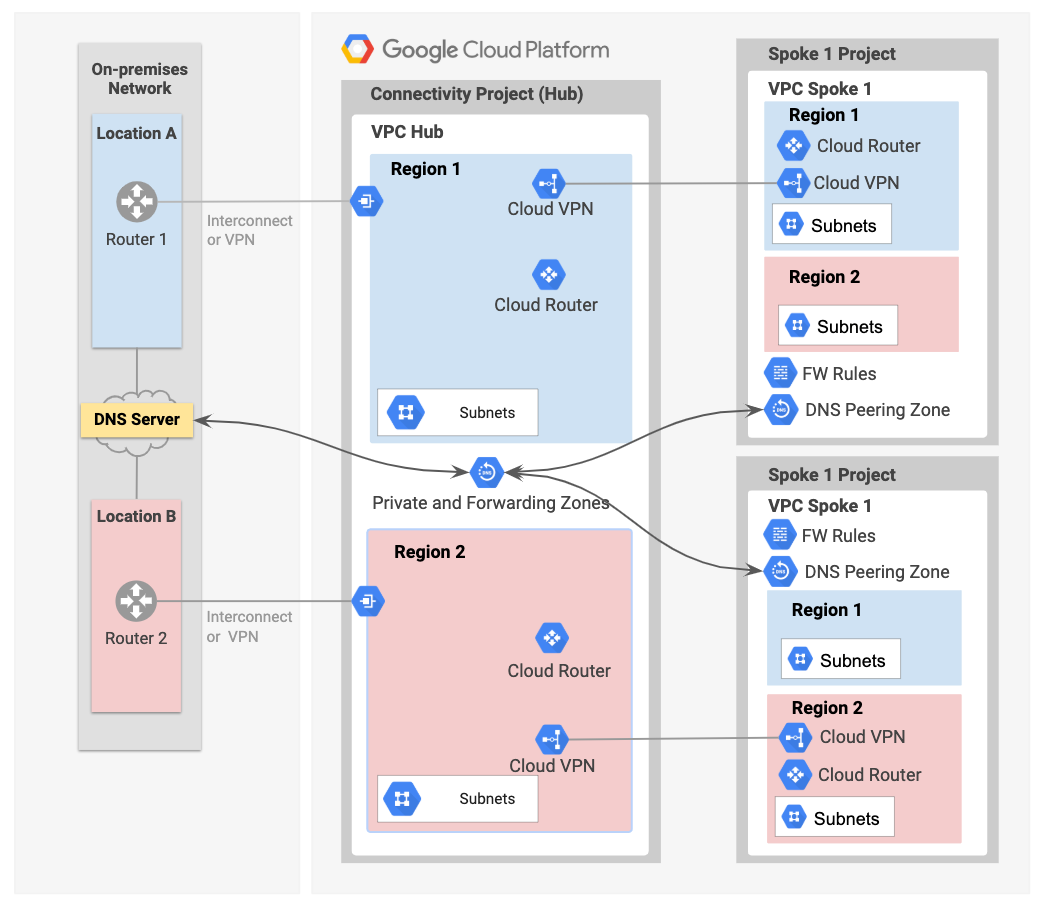
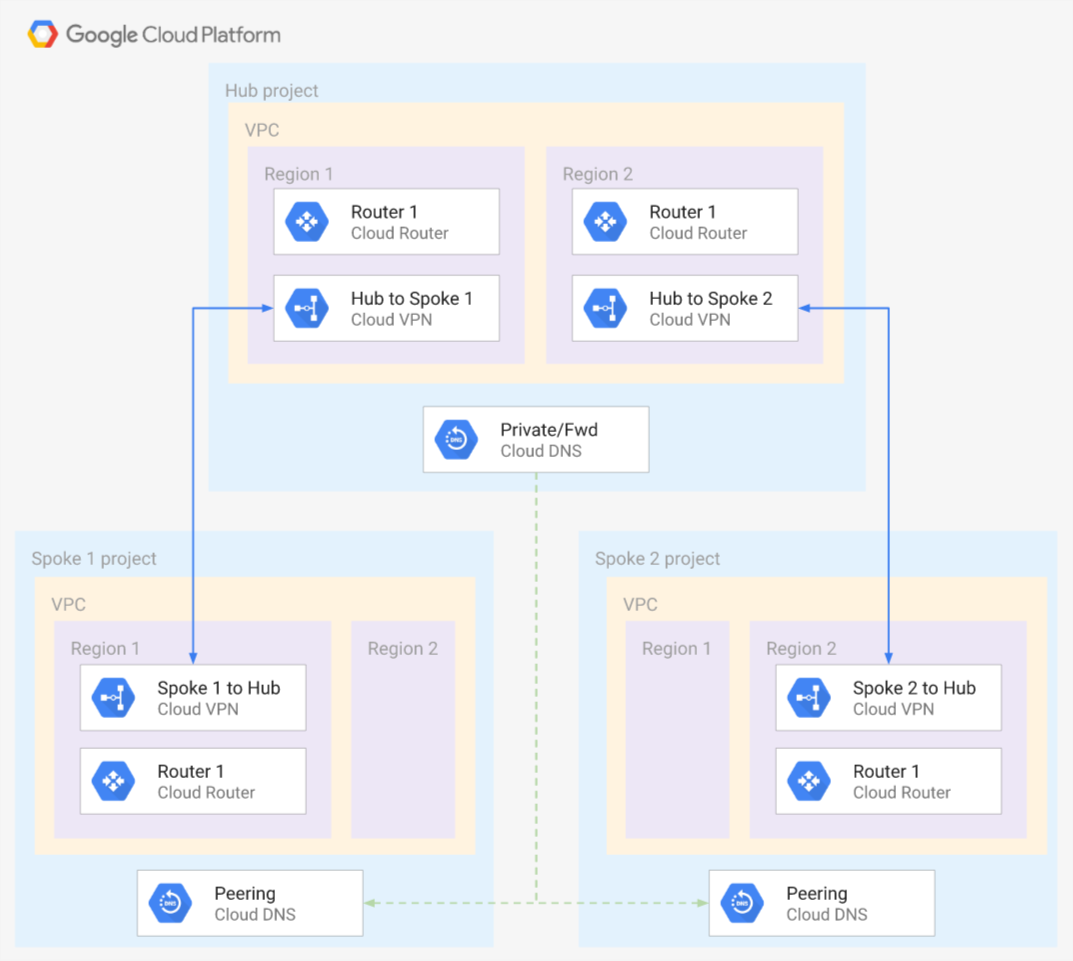
Hub and spoke: minimal README changes, update diagram * hub and spoke: minimal README changes, update diagram * Generate_docs update

diff --git a/infrastructure/hub-and-spoke-vpns/README.md b/infrastructure/hub-and-spoke-vpns/README.md
@@ -1,8 +1,8 @@
 # Hub and Spoke VPNs
 
-This sample creates a simple **Hub and Spoke VPNs** architecture, where network connects every location (VPC Network) through a single intermediary location called a hub via IPsec VPNs. 
+This sample creates a simple **Hub and Spoke VPN** architecture, where the VPC network connects satellite locations (spokes) through a single intermediary location (hub) via [IPsec VPN](https://cloud.google.com/vpn/docs/concepts/overview), optionally providing full-mesh networking via [custom route advertisements](https://cloud.google.com/router/docs/how-to/advertising-overview).
 
-> **NOTE**: This example is not desined to provide HA, please refer to the [documentation](https://cloud.google.com/vpn/docs/concepts/advanced#ha-options) for information on Cloud VPNs and HA.
+> **NOTE**: This example is not designed to provide HA, please refer to the [documentation](https://cloud.google.com/vpn/docs/concepts/advanced#ha-options) for information on Cloud VPNs and HA.
 
 
 The benefits of this topology include:
@@ -11,7 +11,7 @@ The benefits of this topology include:
 - Central services and tools deployed in Central Services Project (Hub) for use by all Service Projects (Spokes).
 - Network/Security Admin hands over spoke Projects to respective team who then have full autonomy.
 - Network/Security Admin monitors spoke projects for organization security posture compliance using tools like [Forseti](https://forsetisecurity.org/), [CSCC](https://cloud.google.com/security-command-center/) etc deployed in Central Services Project (Hub).
-- Spokes communicate with on-prem via VPN to transit hub and then over Interconnect or VPN to on-premises.
+- Spokes communicate with on-prem via VPN to transit hub and then over Interconnect or VPN to on-premises (on-premises resources are not included in this sample for obvious reasons).
 - (Optional) Spokes communicate in a full-mesh to each other via VPN transit routing in Central Services Project (Hub).
 - This is a decentralized architecture where each spoke project has autonomy to manage all their GCP compute and network resources.
 
@@ -55,19 +55,19 @@ SSH access to instances is configured via [OS Login](https://cloud.google.com/co
 |------|-------------|:----:|:-----:|:-----:|
 | forwarding\_dns\_zone\_domain | Forwarding DNS Zone Domain. | string | `"on-prem.local."` | no |
 | forwarding\_dns\_zone\_name | Forwarding DNS Zone Name. | string | `"on-prem-local"` | no |
-| forwarding\_zone\_server\_addresses | Forwarding DNS Zone Server Addresses | list | `<list>` | no |
-| hub\_bgp\_asn | Hub BGP ASN. | string | `"64515"` | no |
-| hub\_project\_id | Hub Project id. | string | n/a | yes |
-| hub\_subnets | Hub VPC subnets configuration. | list | `<list>` | no |
+| forwarding\_zone\_server\_addresses | Forwarding DNS Zone Server Addresses | list(string) | `<list>` | no |
+| hub\_bgp\_asn | Hub BGP ASN. | number | `"64515"` | no |
+| hub\_project\_id | Hub Project id. Same project can be used for hub and spokes. | string | n/a | yes |
+| hub\_subnets | Hub VPC subnets configuration. | object | `<list>` | no |
 | private\_dns\_zone\_domain | Private DNS Zone Domain. | string | `"gcp.local."` | no |
 | private\_dns\_zone\_name | Private DNS Zone Name. | string | `"gcp-local"` | no |
-| spoke\_1\_bgp\_asn | Spoke 1 BGP ASN. | string | `"64516"` | no |
-| spoke\_1\_project\_id | Spoke 1 Project id. | string | n/a | yes |
+| spoke\_1\_bgp\_asn | Spoke 1 BGP ASN. | number | `"64516"` | no |
+| spoke\_1\_project\_id | Spoke 1 Project id. Same project can be used for hub and spokes. | string | n/a | yes |
 | spoke\_1\_subnets | Spoke 1 VPC subnets configuration. | list | `<list>` | no |
-| spoke\_2\_bgp\_asn | Spoke 2 BGP ASN. | string | `"64517"` | no |
-| spoke\_2\_project\_id | Spoke 2 Project id. | string | n/a | yes |
+| spoke\_2\_bgp\_asn | Spoke 2 BGP ASN. | number | `"64517"` | no |
+| spoke\_2\_project\_id | Spoke 2 Project id. Same project can be used for hub and spokes. | string | n/a | yes |
 | spoke\_2\_subnets | Spoke 2 VPC subnets configuration. | list | `<list>` | no |
-| spoke\_to\_spoke\_route\_advertisement | Use custom route advertisement in hub routers to advertise all spoke subnets. | string | `"true"` | no |
+| spoke\_to\_spoke\_route\_advertisement | Use custom route advertisement in hub routers to advertise all spoke subnets. | bool | `"true"` | no |
 
 ## Outputs
 